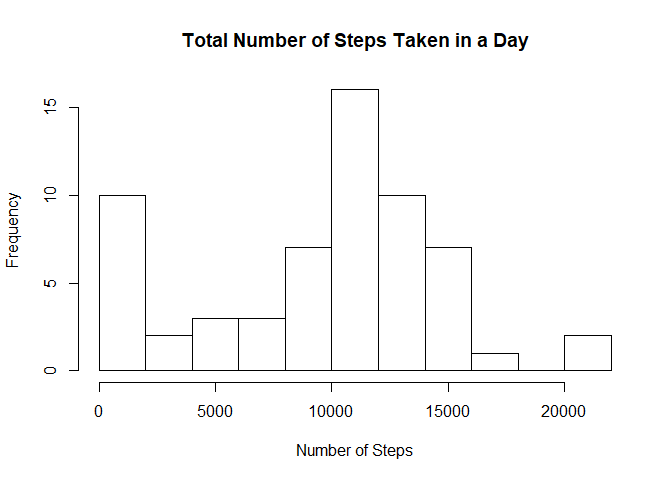
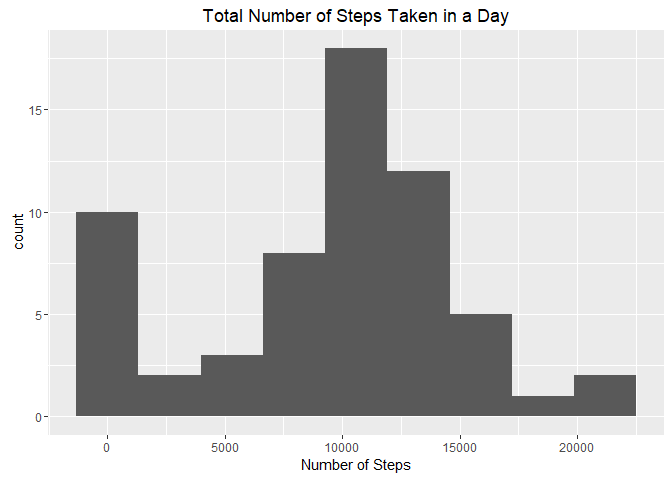
Finish Daily Activity
Wrote code for "What is the average daily activity pattern?"

diff --git a/PA1_template.html b/PA1_template.html
@@ -127,12 +127,11 @@ $(document).ready(function () {
 
 <div id="loading-and-preprocessing-the-data" class="section level2">
 <h2>Loading and preprocessing the data</h2>
-<pre class="r"><code>require(xtable)</code></pre>
-<pre><code>## Loading required package: xtable</code></pre>
-<pre><code>## Warning: package 'xtable' was built under R version 3.3.3</code></pre>
 <pre class="r"><code>require(knitr)</code></pre>
 <pre><code>## Loading required package: knitr</code></pre>
 <pre><code>## Warning: package 'knitr' was built under R version 3.3.3</code></pre>
+<pre class="r"><code>require(ggplot2)</code></pre>
+<pre><code>## Loading required package: ggplot2</code></pre>
 <pre class="r"><code>if(!file.exists(&quot;activity.csv&quot;)) {
         unzip(&quot;activity.zip&quot;)
 }
@@ -142,15 +141,22 @@ activity &lt;- read.csv(&quot;activity.csv&quot;)</code></pre>
 <div id="what-is-mean-total-number-of-steps-taken-per-day" class="section level2">
 <h2>What is mean total number of steps taken per day?</h2>
 <pre class="r"><code>aggSteps &lt;- tapply(activity$steps,activity$date,sum,na.rm=TRUE)</code></pre>
-<pre class="r"><code>hist(aggSteps, breaks = 10, xlab = &quot;Number of Steps&quot;, 
-     main = &quot;Total Number of Steps Taken in a Day&quot;)</code></pre>
[1 lines of base64/hex data omitted]
+<pre class="r"><code>qplot(aggSteps, bins = 9, xlab = &quot;Number of Steps&quot;, main = &quot;Total Number of Steps Taken in a Day&quot;)</code></pre>
[1 lines of base64/hex data omitted]
 <pre class="r"><code>meanSteps &lt;- mean(aggSteps)
 medianSteps &lt;-median(aggSteps)</code></pre>
 <p>The mean number of steps taken per day is 9354.2295082 and the median number of steps taken per day is 10395.</p>
 </div>
 <div id="what-is-the-average-daily-activity-pattern" class="section level2">
 <h2>What is the average daily activity pattern?</h2>
+<pre class="r"><code>intSteps &lt;- tapply(activity$steps,activity$interval,mean,na.rm=TRUE)</code></pre>
+<pre class="r"><code>plot(names(intSteps),intSteps,type = &quot;l&quot;, col = &quot;blue&quot;, 
+     xlab = &quot;Interval (minutes)&quot;, ylab = &quot;Number of Steps&quot;, 
+     main = &quot;Average Number of Steps in Each 5 Minute Inerval&quot;)</code></pre>
[1 lines of base64/hex data omitted]
+<pre class="r"><code>maxSteps &lt;- max(intSteps)
+maxInt &lt;- names(intSteps[which(intSteps == maxSteps)])</code></pre>
+<p>The interval with the most average steps is 835 during which an average of 206.1698113 are taken.</p>
 </div>
 <div id="imputing-missing-values" class="section level2">
 <h2>Imputing missing values</h2>

diff --git a/PA1_template.md b/PA1_template.md
@@ -9,18 +9,6 @@ output:
 ## Loading and preprocessing the data
 
 ```r
-require(xtable)
-```
-
-```
-## Loading required package: xtable
-```
-
-```
-## Warning: package 'xtable' was built under R version 3.3.3
-```
-
-```r
 require(knitr)
 ```
 
@@ -30,6 +18,14 @@ require(knitr)
 
 ```
 ## Warning: package 'knitr' was built under R version 3.3.3
+```
+
+```r
+require(ggplot2)
+```
+
+```
+## Loading required package: ggplot2
 ```
 
 
@@ -53,8 +49,7 @@ aggSteps <- tapply(activity$steps,activity$date,sum,na.rm=TRUE)
 
 
 ```r
-hist(aggSteps, breaks = 10, xlab = "Number of Steps", 
-     main = "Total Number of Steps Taken in a Day")
+qplot(aggSteps, bins = 9, xlab = "Number of Steps", main = "Total Number of Steps Taken in a Day")
 ```
 
 ![](PA1_template_files/figure-html/stepshistogram-1.png)<!-- -->
@@ -70,7 +65,27 @@ steps taken per day is 10395.
 
 ## What is the average daily activity pattern?
 
+```r
+intSteps <- tapply(activity$steps,activity$interval,mean,na.rm=TRUE)
+```
 
+
+```r
+plot(names(intSteps),intSteps,type = "l", col = "blue", 
+     xlab = "Interval (minutes)", ylab = "Number of Steps", 
+     main = "Average Number of Steps in Each 5 Minute Inerval")
+```
+
+![](PA1_template_files/figure-html/plotsteps-1.png)<!-- -->
+
+
+```r
+maxSteps <- max(intSteps)
+maxInt <- names(intSteps[which(intSteps == maxSteps)])
+```
+
+The interval with the most average steps is 835 during which an average
+of 206.1698113 are taken.
 
 ## Imputing missing values
 
